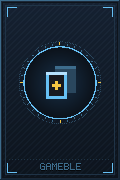
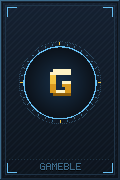
feat(shell): the gold GAMEBLE wordmark replaces the emblem, and the README opens on the animated header

Changed region(s): [[0.375, 0.3611, 0.65, 0.5556]]

diff --git a/app/frontend/styles/shell.css b/app/frontend/styles/shell.css
@@ -231,10 +231,6 @@ a.top-bar__home {
   text-decoration: none;
 }
 
-a.top-bar__home:hover {
-  color: var(--color-accent);
-}
-
 .top-bar__divider {
   flex: none;
   align-self: center;
@@ -246,17 +242,11 @@ a.top-bar__home:hover {
 .top-bar__brand {
   display: flex;
   align-items: center;
-  gap: var(--space-3);
   margin: 0;
-  color: var(--color-text-max);
-  font: var(--font-screen-title);
-  letter-spacing: var(--tracking-screen-title);
-  text-transform: uppercase;
 }
 
-.top-bar__logo {
-  width: 24px;
-  height: 24px;
+.top-bar__wordmark {
+  display: block;
 }
 
 .top-bar__title {
@@ -1322,7 +1312,6 @@ html[data-sub-view-step] .main {
     padding: 0 var(--space-gutter-phone);
   }
 
-  .top-bar__brand,
   .top-bar__title {
     font: var(--font-screen-title-phone);
     letter-spacing: var(--tracking-screen-title-phone);

diff --git a/app/frontend/styles/hub.css b/app/frontend/styles/hub.css
@@ -257,7 +257,7 @@ button.menu-item:focus-visible:hover {
   margin: 0;
 }
 
-/* The empty frame: hatched, a dashed card outline, the logo dimmed. */
+/* The empty frame: hatched, a dashed card outline, the wordmark dimmed. */
 .hub-showcase__frame {
   display: flex;
   align-items: center;
@@ -277,9 +277,8 @@ button.menu-item:focus-visible:hover {
   border: var(--space-unit) dashed var(--color-line);
 }
 
-.hub-showcase__logo {
-  width: 24px;
-  height: 24px;
+.hub-showcase__wordmark {
+  display: block;
   opacity: 0.35;
 }
 

diff --git a/test/integration/shell_test.rb b/test/integration/shell_test.rb
@@ -53,11 +53,11 @@ class ShellTest < ActionDispatch::IntegrationTest
     assert_select "[style]", false
   end
 
-  test "a visitor on the hub: the logo and the official Steam image as a POST form back to this page" do
+  test "a visitor on the hub: the wordmark and the official Steam image as a POST form back to this page" do
     get home_path(locale: :fr)
 
     assert_select "body > header.top-bar:not([data-screen-label])" do
-      assert_select ".top-bar__start p.top-bar__brand svg.pixel-icon.top-bar__logo"
+      assert_select ".top-bar__start p.top-bar__brand svg.pixel-icon.top-bar__wordmark"
       assert_select ".top-bar__start .top-bar__brand .top-bar__name", "gameble"
       assert_select ".top-bar__start a", false
       assert_select ".top-bar__end form.steam-sign-in[action='/auth/steam'][method=post][data-turbo=false]" do
@@ -114,7 +114,7 @@ class ShellTest < ActionDispatch::IntegrationTest
 
     assert_select "header.top-bar[data-screen-label=Card]"
     assert_select ".top-bar__start > a.top-bar__brand.top-bar__home:first-child[href='/en'][aria-label=?]", "gameble, command bridge" do
-      assert_select "svg.pixel-icon.top-bar__logo[aria-hidden=true]"
+      assert_select "svg.pixel-icon.top-bar__wordmark[aria-hidden=true]"
       assert_select ".top-bar__name", "gameble"
     end
     assert_select ".top-bar__home + .top-bar__divider[aria-hidden=true]"
@@ -166,13 +166,13 @@ class ShellTest < ActionDispatch::IntegrationTest
     assert_select ".top-bar form[action='/auth/steam']", false
   end
 
-  test "a screen without a back button: the logo and name link to the hub on a desktop, the plain brand on a phone" do
+  test "a screen without a back button: the wordmark links to the hub on a desktop, the plain brand on a phone" do
     sign_in(accounts_players(:player))
 
     get more_path(locale: :en)
 
     assert_select ".top-bar__start > a.top-bar__brand.top-bar__home[href='/en'][aria-label=?]", "gameble, command bridge" do
-      assert_select "svg.pixel-icon.top-bar__logo"
+      assert_select "svg.pixel-icon.top-bar__wordmark"
       assert_select ".top-bar__name", "gameble"
     end
     assert_select ".top-bar__start > p.top-bar__brand.top-bar__phone-brand .top-bar__name", "gameble"

diff --git a/test/system/shell_test.rb b/test/system/shell_test.rb
@@ -356,7 +356,7 @@ class ShellTest < ApplicationSystemTestCase
     { library: library_path(locale: :en), card: card_path(locale: :en, slug: "portal"),
       pack: pack_path(locale: :en, token: pack.token), back_office: back_office_path(locale: :en) }.each do |name, path|
       visit path
-      assert_selector ".top-bar__start > a.top-bar__home", text: "GAMEBLE"
+      assert_selector ".top-bar__start > a.top-bar__home[aria-label='gameble, command bridge']"
       assert_no_selector ".top-bar__start > a.top-bar__bridge"
       assert_equal "rgb(11, 15, 21)", computed("body", "backgroundColor"), name
       assert_no_sideways_scroll
@@ -390,7 +390,7 @@ class ShellTest < ApplicationSystemTestCase
     assert_no_selector PREVIOUS
     find(".hub-menu .menu-item[aria-keyshortcuts='2']").click
     assert_current_path library_path(locale: :en)
-    assert_selector ".top-bar__start > a.top-bar__home", text: "GAMEBLE"
+    assert_selector ".top-bar__start > a.top-bar__home[aria-label='gameble, command bridge']"
     assert_no_selector PREVIOUS
     assert_no_selector ".top-bar__bridge"
 

diff --git a/test/controllers/card_preview_tags_test.rb b/test/controllers/card_preview_tags_test.rb
@@ -71,9 +71,9 @@ class CardPreviewTagsTest < ActionDispatch::IntegrationTest
     assert_select "main .button--primary", 1
     link = css_select("main a.public-card__store.button--link").sole
     assert_equal [ "See on Steam (new tab)", "noopener noreferrer external", "_blank" ], [ link.text.squish, link["rel"], link["target"] ]
-    # The slim top bar: the logo and the Steam sign-in image, no way back to
+    # The slim top bar: the wordmark and the Steam sign-in image, no way back to
     # the bridge, no tab bar.
-    assert_select ".top-bar__brand .top-bar__logo"
+    assert_select ".top-bar__brand svg.pixel-icon.top-bar__wordmark"
     assert_select ".top-bar__start > a", false
     assert_select ".top-bar__end form[action='/auth/steam'] img.steam-sign-in__image"
     assert_select "nav.tab-bar", false

diff --git a/test/controllers/pages_controller_test.rb b/test/controllers/pages_controller_test.rb
@@ -186,7 +186,7 @@ class PagesControllerTest < ActionDispatch::IntegrationTest
 
     assert_select ".hub-showcase.hub-showcase--empty" do
       assert_select ".hub-showcase__kicker", false
-      assert_select ".hub-showcase__frame[aria-hidden=true] .hub-showcase__outline svg.hub-showcase__logo"
+      assert_select ".hub-showcase__frame[aria-hidden=true] .hub-showcase__outline svg.hub-showcase__wordmark"
       assert_select "h2.hub-showcase__name", "Open your first booster"
       assert_select ".hub-showcase__line", "Your finest card will show here."
       assert_select "a.button.button--primary[href='/en/booster']", "Open a booster"

diff --git a/test/system/card_detail_test.rb b/test/system/card_detail_test.rb
@@ -125,7 +125,7 @@ class CardDetailTest < ApplicationSystemTestCase
     assert_selector "button.card-detail__nav--next[disabled]"
     assert_no_selector ".card-detail__position"
     assert_no_selector ".top-bar__phone-back"
-    assert_selector ".top-bar__start > a.top-bar__home[href='/en']", text: "GAMEBLE"
+    assert_selector ".top-bar__start > a.top-bar__home[href='/en'][aria-label='gameble, command bridge']"
     assert_no_selector ".top-bar__start > a.top-bar__bridge"
     assert_selector ".card-detail__number", text: "S#{season.number} · #"
     take_screenshot

diff --git a/_bmad-output/initiative-gameble/ux-gameble/DESIGN.md b/_bmad-output/initiative-gameble/ux-gameble/DESIGN.md
@@ -485,7 +485,7 @@ Each tier has a `-hi` and `-lo` shade for the lit and shaded edges of its icon. 
 
 Two open-licensed (OFL) fonts, self-hosted (subsetted woff2 with their license texts), each with one job. Both cover French accents.
 
-- **VT323** (400): the large text only, never under 20px: the logo and screen titles, the hero and public titles, the player's and showcase names, the reveal banner, big numbers and timers, the card title at xl and the friend code: `{typography.screen-title}`, `{typography.hero}`, `{typography.public-title}`, `{typography.banner}`, `{typography.banner-small}`, `{typography.showcase-name}`, `{typography.count-large}`, `{typography.number}`, `{typography.card-title-xl}`.
+- **VT323** (400): the large text only, never under 20px: the screen titles, the hero and public titles, the player's and showcase names, the reveal banner, big numbers and timers, the card title at xl and the friend code: `{typography.screen-title}`, `{typography.hero}`, `{typography.public-title}`, `{typography.banner}`, `{typography.banner-small}`, `{typography.showcase-name}`, `{typography.count-large}`, `{typography.number}`, `{typography.card-title-xl}`.
 - **Space Mono** (400, 700): every small text. Bold for the card titles at s, m and l (`card-title-s` to `card-title-l`, uppercase) and the buttons (`{typography.button}`, `{typography.button-sm}`); regular for the menu, kickers, labels and chips in capitals with a light letter spacing (`{typography.menu}`, `{typography.kicker}`, `{typography.label}`), the card lines (`{typography.card-meta}` / `{typography.card-meta-xl}`), the publisher line (`publisher-m` to `publisher-xl`) and the running text, hints, descriptions and feed lines (`{typography.body}`, `{typography.body-large}`, `{typography.body-small}`).
 
 Rules:
@@ -675,7 +675,7 @@ What the player sees on their own face-down cards at opening, and in the collect
 
 | Back | Look |
 |---|---|
-| Standard (default) | Slate frame, dark diagonal-weave field, a blue ring with a dotted outer ring and gold ticks, the gameble logo in the center, "GAMEBLE" below |
+| Standard (default) | Slate frame, dark diagonal-weave field, a blue ring with a dotted outer ring and gold ticks, the wordmark's gold "G" monogram in the center, "GAMEBLE" below |
 | Saison 1 | Steam blueprint grid, a large engraved "1" in a ring of blue and gold dots, "SAISON" above, "GAMEBLE" below |
 | Semaine 38 | A pennant edged in gold, a gold ring and five small stars, "38" in gold, an orange hazard band, "SEMAINE" |
 | Étoile d'or | Gold frame, a gold sunburst, a large shaded gold star, sparkles, "LEGENDE" |
@@ -684,7 +684,7 @@ What the player sees on their own face-down cards at opening, and in the collect
 | Centurion | Riveted gunmetal plate, an orange octagonal core with "100", an orange hazard band, "CENTURION" |
 | Soldes d'hiver | Icy blue frame, a large snowflake, falling snow, snowy pines on white ground, "HIVER" above |
 
-A locked back is grayed and darkened under a pixel padlock. Each theme and hall of fame set has its own back, unlocked on gold; the eight above are the prototype's set; the other backs that ship are open. Backs, the canister, icons, avatars, the planet and the logo ship as exported pixel-art files (PNG or SVG), not as runtime drawing code.
+A locked back is grayed and darkened under a pixel padlock. Each theme and hall of fame set has its own back, unlocked on gold; the eight above are the prototype's set; the other backs that ship are open. Backs, the canister, icons, avatars, the planet and the wordmark ship as exported pixel-art files (PNG or SVG), not as runtime drawing code.
 
 #### Face-down card and revealed card
 
@@ -696,7 +696,7 @@ Navigation and status around the screens.
 
 #### Top bar
 
-`{components.top-bar.height}` on `{colors.steam-bar}`. Left, on desktop: the gameble logo and "GAMEBLE" on every screen, a link to the hub on the others (hover as a link `[ASSUMPTION]`), then, off the hub, a vertical divider, the back button when shown and the screen title. Left, on the phone: the logo and "GAMEBLE" (hub) or the back button and the screen title (other screens; shortened, for example "BOOSTER", "PROFIL"). Mockups drawn with "◀ PONT" at the left of a desktop top bar predate this rule; the rule applies. Right, per screen:
+`{components.top-bar.height}` on `{colors.steam-bar}`. Left, on desktop: the gold GAMEBLE wordmark on every screen, a link to the hub on the others (hover as a link `[ASSUMPTION]`), then, off the hub, a vertical divider, the back button when shown and the screen title. Left, on the phone: the wordmark (hub) or the back button and the screen title (other screens; shortened, for example "BOOSTER", "PROFIL"). Mockups drawn with "◀ PONT" at the left of a desktop top bar predate this rule; the rule applies. Right, per screen:
 
 | Screen | Right side |
 |---|---|
@@ -705,7 +705,7 @@ Navigation and status around the screens.
 | Collection | "Cartes uniques : 87 / 16 480" with a progress bar (180px; 48px on the phone) |
 | Échanges | "Entre amis · une proposition expire après 7 jours" |
 | Fil d'activité | LIVE marker |
-| Public card page | Logo only on the left; the official Steam sign-in image on the right |
+| Public card page | The wordmark only on the left; the official Steam sign-in image on the right |
 
 - **Packs chip:** a small canister icon, the reserve count, "BOOSTERS", a divider and "+1 dans" with the countdown, or "Réserve pleine" at 10 (for narrower widths, see Layout & Spacing).
 - **Player chip:** the 32px pixel avatar with an outline, the name, a lime online dot.
@@ -736,7 +736,7 @@ Parts specific to one screen, in hub, booster, collection, trade, friends, feed,
 
 The hub's center: the kicker "DERNIÈRE OBTENTION" in gold with a small gold square, the card (`card-xl` desktop, `card-l` phone) above a ringed pixel planet (200 × 200 art pixels, slate and blue bands, a lit ring) that floats 2px at most, rays for Épique and Légendaire, a ground shadow, the title in `{typography.showcase-name}` and a line with the rarity icon, rarity name, genre and number in the rarity color. Secondary button "VOIR LA FICHE".
 
-**Empty showcase** (no notable pull yet): a hatched frame with a dashed inner card outline and a dimmed logo, no rays; the title "OUVREZ VOTRE PREMIER BOOSTER" in `{typography.showcase-name}`, its line and the primary button "OUVRIR UN BOOSTER" (copy: see `EXPERIENCE.md`, Copy deck).
+**Empty showcase** (no notable pull yet): a hatched frame with a dashed inner card outline and the dimmed wordmark, no rays; the title "OUVREZ VOTRE PREMIER BOOSTER" in `{typography.showcase-name}`, its line and the primary button "OUVRIR UN BOOSTER" (copy: see `EXPERIENCE.md`, Copy deck).
 
 #### Community goal panel
 
@@ -755,7 +755,7 @@ The hub with the official Steam sign-in image in place of the packs and player c
 The pack is a machine-like metal canister, not a paper wrapper. Reference: [mockups/key-screens.html](mockups/key-screens.html), booster screen. It is drawn at 100 × 150 art pixels on the 2 CSS px grid (`{components.canister.size}`).
 
 - **Caps** (top and bottom): a steel gradient (`{components.canister.cap-steel-from}` to `{components.canister.cap-steel-to}`) with solid, clean edges: a crisp dark outline, a light rim, a collar and a band of grip ridges. No notches or dots. The top cap carries a small indicator window with one LED.
-- **Body:** a slate-blue cylinder gradient (`{components.canister.body-from}` to `{components.canister.body-to}`) with rim bands, a vertical gloss, four rivets, a blue label (`{colors.accent}`) reading "SAISON 1 / GRAND CATALOGUE", an emblem window holding the gold gameble logo, a hazard band, an LED plate with three LEDs and a barcode.
+- **Body:** a slate-blue cylinder gradient (`{components.canister.body-from}` to `{components.canister.body-to}`) with rim bands, a vertical gloss, four rivets, a blue label (`{colors.accent}`) reading "SAISON 1 / GRAND CATALOGUE", an emblem window holding the wordmark's gold "G" monogram, a hazard band, an LED plate with three LEDs and a barcode.
 - **At rest:** LEDs lit steadily in blue; the canister breathes 2px; a light band sweeps across it; blue rays turn slowly behind it. A steady hint below: "CLIQUEZ POUR OUVRIR" ("TOUCHEZ POUR OUVRIR" on the phone).
 - **Armed** (after a successful opening request): LEDs and the hazard band turn orange.
 - **Opening:** the same caps blow off up and down with smoke jets, a ring, a short warm flash and a shake; then the five cards burst out (see `EXPERIENCE.md`, Motion).
@@ -842,7 +842,7 @@ Reference: [mockups/key-screens.html](mockups/key-screens.html), Fil d'activité
 
 #### Public card page
 
-No app chrome: a slim top bar with the logo and the official Steam sign-in image. Left: the shared card at `card-xl`, tilting under the pointer, with rays from Épique up. The page never names who shared or owns the card (spec CAP-9). Right: the title in `{typography.public-title}`, the publisher, a line with rarity, genre, year and number, the description in `{typography.body-large}`, the link "VOIR SUR STEAM ↗", and a call-to-action panel with a two-line pitch (copy: see `EXPERIENCE.md`, Copy deck) and the primary button "OUVRIR MES PREMIERS BOOSTERS". Below, "LIVE · En ce moment sur gameble" with three compact feed entries. A footer link "Mentions légales".
+No app chrome: a slim top bar with the wordmark and the official Steam sign-in image. Left: the shared card at `card-xl`, tilting under the pointer, with rays from Épique up. The page never names who shared or owns the card (spec CAP-9). Right: the title in `{typography.public-title}`, the publisher, a line with rarity, genre, year and number, the description in `{typography.body-large}`, the link "VOIR SUR STEAM ↗", and a call-to-action panel with a two-line pitch (copy: see `EXPERIENCE.md`, Copy deck) and the primary button "OUVRIR MES PREMIERS BOOSTERS". Below, "LIVE · En ce moment sur gameble" with three compact feed entries. A footer link "Mentions légales".
 
 #### Legal page
 

diff --git a/_bmad-output/initiative-gameble/plan-wordmark-replaces-emblem.md b/_bmad-output/initiative-gameble/plan-wordmark-replaces-emblem.md
@@ -1,0 +1,126 @@
+---
+title: 'The gold GAMEBLE wordmark replaces the emblem'
+type: 'feature'
+ticket: ''
+created: '2026-10-12'
+status: 'built'
+baseline_revision: '68a77453e0b1144ce6e9b5f609efd9855f51d85d'
+route: 'full'
+route_source: 'auto'
+review: 'quick'
+review_source: 'pinned'
+lenses_ran: ['quick']
+review_loop_iteration: 0
+context: []
+---
+
+<frozen-after-approval reason="human-owned intent — do not modify unless human renegotiates">
+
+## Intent
+
+**Problem:** The brand is a 12×12 emblem (two stacked cards and a gold "+") that the author finds ugly, followed by the word "gameble" set in VT323. The repository's GitHub page has no header.
+
+**Approach:** A flat gold pixel wordmark "GAMEBLE" replaces both the emblem and the VT323 word everywhere the brand appears. Where a wide wordmark cannot fit (the Standard card back's centre disc, the canister's emblem window), the wordmark's own gold "G" stands in as a monogram. The README opens with the animated header GIF the author approved.
+
+## Boundaries & Constraints
+
+**Always:**
+- The wordmark design (approved on the canvas, variant "or plat"):
+  - 7×9 bold glyphs (below), 1 art pixel per glyph cell, 3 art pixels between letters, no outline, no shadow.
+  - Rows are banded by `t = y/9`: `t<0.2` `#fff3c4`, `<0.52` `#f4c542`, `<0.78` `#d99a1f`, otherwise `#8f5e0a`.
+  - A glyph pixel with no glyph pixel above it is `#fff3c4`.
+  - A static diagonal shine: `s = x + y`, middle `round(cols*0.17) + round(9/2)`, start `middle - 2`. Pixels at `s-start` in `[0,2)` or exactly `3` take their tier's lifted colour: `#ffffff`, `#fff3c4`, `#ffe08a`, `#d99a1f`.
+  - Glyphs:
+    - G `.######`,`#######`,`##.....`,`##.....`,`##..###`,`##..###`,`##...##`,`#######`,`.######`
+    - A `.#####.`,`#######`,`##...##`,`##...##`,`#######`,`#######`,`##...##`,`##...##`,`##...##`
+    - M `##...##`,`###.###`,`#######`,`##.#.##`,`##.#.##`,`##...##`,`##...##`,`##...##`,`##...##`
+    - E `#######`,`#######`,`##.....`,`######.`,`######.`,`##.....`,`##.....`,`#######`,`#######`
+    - B `######.`,`#######`,`##...##`,`######.`,`######.`,`##...##`,`##...##`,`#######`,`######.`
+    - L `##....` (×7), then `######` (×2)
+- Every pixel file comes from `script/pixel_art/export.mjs`. The glyphs and colours are defined once there and feed both the SVG and the PNG monogram.
+- The brand keeps its accessible name, `t("shell.top_bar.brand")` (or the link's existing `home` label). The wordmark SVG stays `aria-hidden`.
+
+**Never:**
+- Hand-edit `app/frontend/images/pixel/`.
+- Add new locale strings.
+- Use animation or a hover shine: those belong to a separate ticket.
+- Change the other card backs, the starfield or `canister-small`.
+
+</frozen-after-approval>
+
+## Code Map
+
+- `script/pixel_art/export.mjs`:
+  - `ICONS` (L147-419; `logo` at L148-165) is consumed by `iconSvg` (L421-443).
+  - `drawLogo` (L568-573) is called only by the Standard back (`default:` case, L787-815; the logo at L810-811, the 5×7 "GAMEBLE" word at L812-813) and by the canister body (L875-882, window `wx=35 wy=55 ww=30 wh=32`).
+  - The `files` Map is at L1071-1080. `DESCRIPTIONS` (L1086-1116) needs exactly one entry per file, or the script throws.
+- `app/helpers/shell_helper.rb:22`: `pixel_icon(name, **attrs)` inlines `images/pixel/<name>.svg` and adds `aria-hidden`. Reuse it as is.
+- `app/views/shell/_top_bar.html.erb` L24-53: four brand branches. Each is `pixel_icon("logo", class: "top-bar__logo")` followed by `<span class="top-bar__name">`. Branches :24 and :46 are links labelled `shell.top_bar.home`; :41 (home and public pages) and :50 (phone brand) are `<p>`.
+- `app/views/pages/_showcase.html.erb:34` and `_invitation.html.erb:7`: the dimmed logo inside the `.hub-showcase__outline` dashed card (196×304).
+- `app/frontend/styles/shell.css`:
+  - `.top-bar__brand` (L246) carries the font and uppercase that only served the text.
+  - `.top-bar__logo` (L257) is 24×24.
+  - Phone rules are at L1325-1345.
+- `app/frontend/styles/hub.css:280`: `.hub-showcase__logo` is 24×24 at opacity .35.
+- Tests that name the logo:
+  - `test/integration/shell_test.rb` :60-61, :116-118, :174-178, :297;
+  - `test/controllers/card_preview_tags_test.rb:76`;
+  - `test/controllers/pages_controller_test.rb:189`.
+- Tests that need no change:
+  - `test/lib/pixel_art_export_test.rb` counts the committed files dynamically.
+  - `test/helpers/shell_helper_test.rb:46` inlines every SVG.
+- System tests that read the visible text "GAMEBLE": `test/system/shell_test.rb` :359, :393 and `card_detail_test.rb:128`. System tests are disabled, so keep their selectors coherent without running them.
+- `README.md`: has no header today. The GIF is at `/tmp/claude-1000/-home-teyermann-projets-gameble/6be9fa25-60c7-44e6-a725-d418d3d66a2b/scratchpad/header/gameble-header.gif` (1600×480).
+- `_bmad-output/initiative-gameble/ux-gameble/DESIGN.md` (L488, 678, 687, 699, 708, 739, 758) and `EXPERIENCE.md` (L54, L147) describe the logo.
+
+## Tasks & Acceptance
+
+**Execution:**
+- [ ] `script/pixel_art/export.mjs`:
+  - Add the wordmark glyphs and the gold tier/lift colours.
+  - Build a `wordmark` grid (66×9) with the banding, edge light and shine, and add it to `ICONS`.
+  - Replace the `logo` ICONS entry with it, and replace `drawLogo` with `drawMonogram(g, x, y, k)`: the wordmark's "G", banded the same way, at k× scale.
+  - The Standard back puts the monogram centred in its disc; the canister body puts it centred in its emblem window.
+  - Update `DESCRIPTIONS`.
+  - Run the export, so that `logo.svg` disappears, `wordmark.svg` appears, and `back-standard-*.png` and `canister-body.png` change.
+- [ ] `app/views/shell/_top_bar.html.erb`: in all four branches, use `pixel_icon("wordmark", class: "top-bar__wordmark")`. Keep the brand text as `<span class="top-bar__name visually-hidden">`.
+- [ ] `app/views/pages/_showcase.html.erb` and `_invitation.html.erb`: use `pixel_icon("wordmark", class: "hub-showcase__wordmark")`, and update the comment.
+- [ ] `app/frontend/styles/shell.css` and `hub.css`: rename the logo rules to the wordmark (natural SVG size, `display:block`). Keep the dimmed opacity. Drop the text-only typography from `.top-bar__brand`, unless other children need it.
+- [ ] Tests: update the integration and controller selectors to `svg.pixel-icon.top-bar__wordmark` and `svg.hub-showcase__wordmark`; the `.top-bar__name` text assertions stay. Update the three system-test text checks so they target the link by its accessible name.
+- [ ] `.github/assets/gameble-header.gif` (copied from the scratchpad) and `README.md`: put `<p align="center"><img src=".github/assets/gameble-header.gif" width="800" alt="gameble"></p>` above the title.
+- [ ] `DESIGN.md` and `EXPERIENCE.md`: replace "logo"/emblem wording with the gold wordmark (top bar, public page, empty showcase), and the "G" monogram (Standard back, canister).
+
+**Acceptance Criteria:**
+- Given any page with the top bar, desktop or phone, when it renders, then the gold wordmark shows where the emblem and the VT323 "gameble" were, and the brand link or paragraph is still named "gameble…" for assistive technology.
+- Given the hub with no notable pull, or an invitation, when it renders, then the dashed outline holds the dimmed wordmark.
+- Given the Standard back and the canister, when they are exported, then their centre shows the gold "G" monogram and no emblem.
+- Given the repository's README on GitHub, when opened, then the animated header shows at 800 px wide above the title.
+
+## Implementation Notes
+
+## Plan Change Log
+
+## Review Triage Log
+
+Pass 1 (quick lens): 0 high, 0 medium, 3 low, 0 false, 0 maybe-false.
+
+| Finding | Verdict | Route | Evidence |
+|---|---|---|---|
+| `a.top-bar__home:hover` colour rule in shell.css is dead: the link's text is visually hidden and the wordmark's fills are fixed | low | patch | The rule only set `color`; nothing in the link uses `currentColor`. Deleted; hover feedback is ticket 7.40's sweep. |
+| The 132 px wordmark touches the packs chip on a 320 px wide phone | low | rejected | Fits at 360 and 390 px (the reference phones, checked by the reviewer); a 320 px screen is rare and a fix needs new layout rules (wrapping or a smaller mark), not a direct correction. |
+| New multi-line descriptive comments in export.mjs break the AGENTS.md comment rule | low | patch | AGENTS.md allows only one-line comments on external constraints; the comments restate the code. Removed. |
+
+## Design Notes
+
+The monogram reuses the wordmark's "G" so that the round disc and the 30×32 window carry the same mark as the wordmark itself. At k=2 it measures 14×18 art px, which fits the window. On the back, choose k from the disc radius as `drawLogo` did. Its grid is 66 art px wide, which is 132×18 CSS px in the top bar (the bar is 56 px tall).
+
+## Verification
+
+**Commands:**
+- `node script/pixel_art/export.mjs --check` -- expected: exit 0
+- `bin/rails test test/integration/shell_test.rb test/controllers test/lib/pixel_art_export_test.rb test/helpers/shell_helper_test.rb` -- expected: green
+- `bin/ci` -- expected: green (rubocop, packwerk, i18n-tasks, full test suite)
+- `npm run test:js` and `bin/rails zeitwerk:check` -- expected: green
+
+**Manual checks:**
+- Open `wordmark.svg`, `back-standard-l.png` and `canister-body.png`. Expected: the wordmark matches the canvas, and the monogram is centred.

diff --git a/_bmad-output/initiative-gameble/ux-gameble/EXPERIENCE.md b/_bmad-output/initiative-gameble/ux-gameble/EXPERIENCE.md
@@ -47,11 +47,11 @@ In this document, "booster" is the player-facing word for the spec's "pack", and
 | Plus (phone only) | PLUS tab | PLUS rows: Amis, Fil d'activité, Succès, Profil et paramètres |
 | Back-office | Staff accounts only | Out of the redesign's scope: unchanged behavior (spec CAP-2, CAP-15), plain functional style, designed later |
 
-**Desktop navigation.** The hub is the only menu: 01 OUVRIR UN BOOSTER (boosters badge), 02 COLLECTION (unique cards owned / total), 03 ÉCHANGES (orange badge when a trade waits for the player), 04 AMIS ("n en ligne"), 05 FIL D'ACTIVITÉ ("En direct"), 06 SUCCÈS (earned / total). The player chip opens Profil et paramètres. On every screen the top bar's logo and "GAMEBLE" are a link to the hub. Every other screen also has, after them, a back button to the previous screen (see Back button). There is no permanent sidebar.
+**Desktop navigation.** The hub is the only menu: 01 OUVRIR UN BOOSTER (boosters badge), 02 COLLECTION (unique cards owned / total), 03 ÉCHANGES (orange badge when a trade waits for the player), 04 AMIS ("n en ligne"), 05 FIL D'ACTIVITÉ ("En direct"), 06 SUCCÈS (earned / total). The player chip opens Profil et paramètres. On every screen the top bar's gold GAMEBLE wordmark is a link to the hub. Every other screen also has, after it, a back button to the previous screen (see Back button). There is no permanent sidebar.
 
 **Phone navigation.** A bottom tab bar: PONT · BOOSTER · COLLECTION · ÉCHANGES · PLUS. Tab roots have no back button; tapping the current tab returns to its root or scrolls it to the top. Sub-views slide over their screen with a contextual back: "◀ GRILLE" (card detail opened from a grid or a set), "◀ BOOSTER" (card detail opened from an opened booster), "◀ LISTE" (trade board), "◀ PLUS" (Amis, Fil, Succès, Profil). The public card page has no tab bar.
 
-**Hub content.** Top bar: logo, rarity counter, packs chip, player chip. Left: kicker "PONT DE COMMANDEMENT" alone (no subtitle: the "Vaisseau-bibliothèque « Archiviste »" line was cut, author 2026-10-07), the menu, the daily booster panel. Center: the showcase. Right: the community goal panel and "SETS EN COURS" (the player's four sets closest to their next tier, "TOUT VOIR ▸" opening the collection). Bottom: the LIVE ticker. On the phone the same blocks stack in one scrolling column without the menu.
+**Hub content.** Top bar: the wordmark, rarity counter, packs chip, player chip. Left: kicker "PONT DE COMMANDEMENT" alone (no subtitle: the "Vaisseau-bibliothèque « Archiviste »" line was cut, author 2026-10-07), the menu, the daily booster panel. Center: the showcase. Right: the community goal panel and "SETS EN COURS" (the player's four sets closest to their next tier, "TOUT VOIR ▸" opening the collection). Bottom: the LIVE ticker. On the phone the same blocks stack in one scrolling column without the menu.
 
 **Signed-out visitors** see everything that needs no account and cannot act: any such action opens the sign-in panel, and the collection shows every slot empty. The signed-out hub is described in `DESIGN.md` (see Signed-out hub).
 
@@ -144,7 +144,7 @@ Behavior only. Visual specs live in `DESIGN.md` (see Components), under the same
 | Player chip | Opens Profil et paramètres. |
 | Menu item | Opens its screen. Keys 1 to 6 open the matching item only while focus is inside the menu (`aria-keyshortcuts`). Coming back to the hub focuses the item last used. |
 | Count badge | Boosters in reserve (lime); trades waiting for the player (orange). Grayed at zero in the menu; hidden at zero in the tab bar. Its number is part of the item's accessible name. |
-| GAMEBLE link | Desktop: the top bar's logo and "GAMEBLE" open the hub from any screen. Accessible name "GAMEBLE, pont de commandement" `[ASSUMPTION]`. Disabled during an opening. |
+| GAMEBLE link | Desktop: the top bar's wordmark opens the hub from any screen. Accessible name "GAMEBLE, pont de commandement" `[ASSUMPTION]`. Disabled during an opening. |
 | Back button | Desktop: returns to the previous screen, like the browser's Back, which comes back as it was left (scroll, filters, page). Its label names that screen by its short top-bar title ("◀ COLLECTION", "◀ FICHE", "◀ AMIS"; the collection entry reads "◀ SETS"). Hidden when the previous screen is the hub (the GAMEBLE link leads there) or when the tab holds no earlier gameble screen (a direct link, a new tab): a back never leaves gameble. Phone: returns to the parent view (see Phone navigation). Disabled during an opening. |
 | Tab bar | Switches between the five roots. Disabled during an opening. Hidden on the public card page. |
 | PLUS rows | Open Amis, Fil d'activité, Succès, Profil et paramètres. |

diff --git a/README.md b/README.md
@@ -1,3 +1,5 @@
+<p align="center"><img src=".github/assets/gameble-header.gif" width="800" alt="gameble"></p>
+
 # gameble
 
 A Rails 8.1 application: four domain packs under `packs/` (`catalog`, `steam`, `accounts`, `game`) and a thin web layer in `app/`. Assets are served by Vite.
